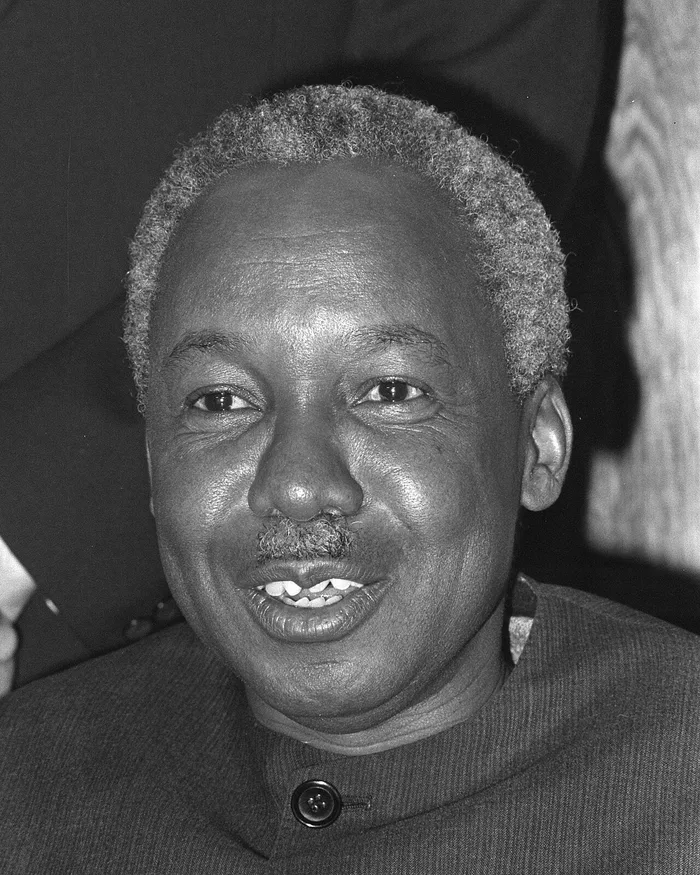
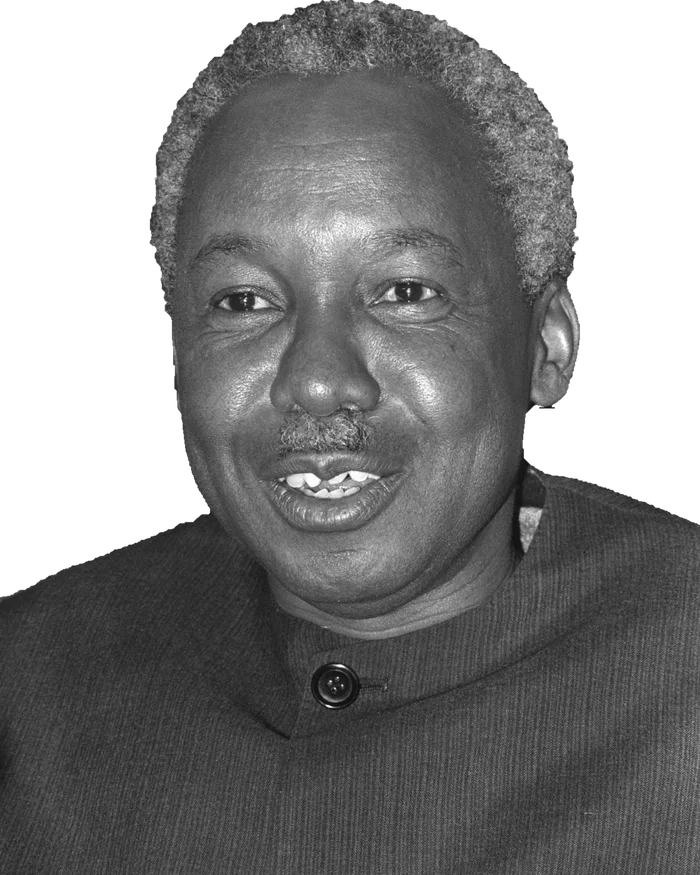
Add 20 more leaders (52 total) + Empires & Antiquity group
New past: Kenyatta, Sékou Touré, Houphouët-Boigny, Kaunda, Samora Machel,
Bourguiba, Ben Bella, Luthuli, Cheikh Anta Diop, Makeba, Ngũgĩ, Hatshepsut.
New present: Ruto, Faye, Museveni, Hichilema, Kipchoge, Elumelu, N'Dour, Graça Machel.
All portraits self-hosted as local WebP; new 'Empires & Antiquity' theme group.

diff --git a/public/leaders.js b/public/leaders.js
@@ -292,6 +292,199 @@ window.LEADERS = [
     quote: "The branch will not break in the arms of the chameleon."
   },
 
+  {
+    id: "kenyatta",
+    name: "Jomo Kenyatta",
+    country: "Kenya",
+    flag: "🇰🇪",
+    era: "past",
+    category: "Politics & Liberation",
+    years: "1897–1978",
+    role: "Independence leader & first president of Kenya (1964–1978)",
+    tagline: "The 'Mzee' who led Kenya from colony to nation.",
+    rise: "Detained by the British during the Mau Mau emergency, Kenyatta emerged from years in prison to lead Kenya to independence in 1963.",
+    did: "He unified a young multi-ethnic nation under the rallying cry 'Harambee' (pulling together), expanded education, and built a stable, business-friendly economy.",
+    fullPicture: "His rule grew centralized and personalized, and land policies favoring his allies and community sowed grievances that still echo in Kenyan politics.",
+    why: "Kenyatta is the founding father of modern Kenya — embodying both the promise and the unfinished business of independence.",
+    quote: "Our children may learn about the heroes of the past. Our task is to make ourselves the architects of the future."
+  },
+  {
+    id: "sekoutoure",
+    name: "Ahmed Sékou Touré",
+    country: "Guinea",
+    flag: "🇬🇳",
+    era: "past",
+    category: "Politics & Liberation",
+    years: "1922–1984",
+    role: "Independence leader & first president of Guinea (1958–1984)",
+    tagline: "The man who said 'No' to France — and chose freedom over comfort.",
+    rise: "A trade unionist, Touré led Guinea to reject de Gaulle's 1958 community, making it the only French colony to vote for immediate independence.",
+    did: "France withdrew overnight, stripping the country bare; Touré built a fiercely sovereign, pan-African state and sheltered liberation movements.",
+    fullPicture: "That defiance hardened into paranoid dictatorship: the notorious Camp Boiro saw mass detention, torture and death, and many Guineans fled into exile.",
+    why: "Touré's 'No' is a landmark of African self-determination — and his descent a warning about the cost of unchecked power.",
+    quote: "We prefer freedom in poverty to opulence in slavery."
+  },
+  {
+    id: "houphouet",
+    name: "Félix Houphouët-Boigny",
+    country: "Côte d'Ivoire",
+    flag: "🇨🇮",
+    era: "past",
+    category: "Politics & Governance",
+    years: "1905–1993",
+    role: "First president of Côte d'Ivoire (1960–1993)",
+    tagline: "Architect of the 'Ivorian miracle' — and of dependence on France.",
+    rise: "A planter, doctor and French government minister before independence, Houphouët-Boigny led Côte d'Ivoire to nationhood in 1960.",
+    did: "He delivered decades of stability and cocoa-driven growth — the 'Ivorian miracle' — making Abidjan a thriving regional hub.",
+    fullPicture: "His one-party rule, close 'Françafrique' ties and the extravagant Yamoussoukro basilica drew criticism, and the prosperity unraveled into conflict after his death.",
+    why: "He showed stability and growth were possible in post-colonial Africa — and how fragile they are without durable institutions.",
+    quote: "Peace is not a word, it is a behaviour."
+  },
+  {
+    id: "kaunda",
+    name: "Kenneth Kaunda",
+    country: "Zambia",
+    flag: "🇿🇲",
+    era: "past",
+    category: "Politics & Liberation",
+    years: "1924–2021",
+    role: "Independence leader & first president of Zambia (1964–1991)",
+    tagline: "'KK' — the humanist who hosted a continent's freedom fighters.",
+    rise: "A teacher and independence activist, Kaunda led Zambia to freedom from British rule in 1964.",
+    did: "Guided by his philosophy of 'Zambian Humanism', he made Zambia a frontline supporter of liberation movements across southern Africa, sheltering the ANC and others.",
+    fullPicture: "Copper dependence and one-party rule brought economic decline — but in 1991 he accepted electoral defeat and handed over power peacefully, a rare grace.",
+    why: "Kaunda paired pan-African solidarity with a willingness to leave office — a model too few of his peers followed.",
+    quote: "Man must be at the centre of all our activity."
+  },
+  {
+    id: "machel",
+    name: "Samora Machel",
+    country: "Mozambique",
+    flag: "🇲🇿",
+    era: "past",
+    category: "Politics & Liberation",
+    years: "1933–1986",
+    role: "FRELIMO leader & first president of Mozambique (1975–1986)",
+    tagline: "The revolutionary who freed Mozambique — and died in the sky.",
+    rise: "A nurse turned guerrilla commander, Machel led FRELIMO to victory over Portuguese colonial rule, becoming Mozambique's first president in 1975.",
+    did: "He launched ambitious health and literacy campaigns and championed national unity and women's emancipation in a war-torn new nation.",
+    fullPicture: "His Marxist policies and a brutal, externally-backed civil war battered the economy; he died in 1986 in a still-disputed plane crash near the South African border.",
+    why: "Machel remains a symbol of revolutionary idealism — and of the slogan that outlived him: the struggle continues.",
+    quote: "A luta continua — the struggle continues."
+  },
+  {
+    id: "bourguiba",
+    name: "Habib Bourguiba",
+    country: "Tunisia",
+    flag: "🇹🇳",
+    era: "past",
+    category: "Politics & Governance",
+    years: "1903–2000",
+    role: "Founding father & first president of Tunisia (1957–1987)",
+    tagline: "The modernizer who built women's rights into a nation's foundation.",
+    rise: "Leader of the independence movement against France, Bourguiba became independent Tunisia's first president in 1957.",
+    did: "He enacted the Code of Personal Status — among the Arab world's most progressive — banning polygamy and expanding women's rights, and built a secular, education-focused state.",
+    fullPicture: "His decades-long rule became a personality cult and one-party system; declared president-for-life, he was deposed in a 1987 medical coup.",
+    why: "Bourguiba showed reform and women's emancipation could anchor a modern state — while modelling the trap of clinging to power.",
+    quote: "A nation cannot advance while half its people remain in the shadows."
+  },
+  {
+    id: "benbella",
+    name: "Ahmed Ben Bella",
+    country: "Algeria",
+    flag: "🇩🇿",
+    era: "past",
+    category: "Politics & Liberation",
+    years: "1916–2012",
+    role: "Revolutionary & first president of Algeria (1963–1965)",
+    tagline: "A hero of one of the 20th century's bloodiest wars of independence.",
+    rise: "A founder of the FLN, Ben Bella helped lead Algeria's brutal war of independence against France and emerged from prison to become the nation's first president in 1963.",
+    did: "He embodied the triumph of an immense anti-colonial struggle and threw Algeria behind third-world and pan-African causes.",
+    fullPicture: "His presidency was brief and increasingly autocratic; he was overthrown by Houari Boumédiène in 1965 and spent years imprisoned and in exile.",
+    why: "Ben Bella personifies the enormous cost — and the contested aftermath — of liberation won by the gun.",
+    quote: "Independence is not given; it is wrested from the oppressor."
+  },
+  {
+    id: "luthuli",
+    name: "Albert Luthuli",
+    country: "South Africa",
+    flag: "🇿🇦",
+    era: "past",
+    category: "Politics & Liberation",
+    years: "1898–1967",
+    role: "ANC president-general; first African Nobel Peace laureate",
+    tagline: "The chief who chose nonviolence — and won Africa's first Nobel Peace Prize.",
+    rise: "A Zulu chief and teacher, Luthuli became president-general of the ANC in 1952, leading the early mass campaign against apartheid.",
+    did: "He steered a disciplined nonviolent resistance and, in 1960, became the first African awarded the Nobel Peace Prize.",
+    fullPicture: "Banned, silenced and confined by the apartheid regime for much of his later life, he died in disputed circumstances in 1967.",
+    why: "Luthuli laid the moral foundation of the anti-apartheid struggle that Mandela's generation carried forward.",
+    quote: "The road to freedom is via the cross."
+  },
+  {
+    id: "diop",
+    name: "Cheikh Anta Diop",
+    country: "Senegal",
+    flag: "🇸🇳",
+    era: "past",
+    category: "Culture & Ideas",
+    years: "1923–1986",
+    role: "Historian, physicist & pan-African scholar",
+    tagline: "The scholar who reclaimed ancient Egypt as African.",
+    rise: "Trained in physics and history in Paris, Diop fused science and scholarship to challenge colonial accounts of Africa's past.",
+    did: "He marshaled linguistic, cultural and even radiocarbon evidence to argue that ancient Egypt (Kemet) was a Black African civilization, reshaping African historiography.",
+    fullPicture: "His theses were fiercely contested in Western academia, but his rigor and pan-African vision proved deeply influential; Senegal's main university bears his name.",
+    why: "Diop gave Africa back its deep history — the very idea at the heart of a 'Kemet' consciousness.",
+    quote: "The history of Africa will remain suspended in air until African historians dare to connect it with the history of Egypt."
+  },
+  {
+    id: "makeba",
+    name: "Miriam Makeba",
+    country: "South Africa",
+    flag: "🇿🇦",
+    era: "past",
+    category: "Culture & Ideas",
+    years: "1932–2008",
+    role: "'Mama Africa' — singer & anti-apartheid activist",
+    tagline: "The voice that carried Africa's freedom to the world.",
+    rise: "A gifted singer, Makeba rose from Johannesburg to global stardom — then was exiled for speaking out against apartheid.",
+    did: "She testified at the United Nations, won a Grammy, and turned her music into a weapon against racism and for African dignity.",
+    fullPicture: "Statelessness, surveillance and personal hardship shadowed her decades in exile; she only returned home after Mandela's release.",
+    why: "Makeba proved culture is diplomacy — 'Mama Africa' gave the continent a voice the world could not ignore.",
+    quote: "I look at an ant and I see myself: endowed by nature with a strength much greater than my size."
+  },
+  {
+    id: "ngugi",
+    name: "Ngũgĩ wa Thiong'o",
+    country: "Kenya",
+    flag: "🇰🇪",
+    era: "past",
+    category: "Culture & Ideas",
+    years: "1938–2025",
+    role: "Novelist & champion of African languages",
+    tagline: "The writer who fought to decolonize the African mind.",
+    rise: "With novels like Weep Not, Child and Petals of Blood, Ngũgĩ became one of Africa's most celebrated authors.",
+    did: "He abandoned English for his native Gikuyu to write for ordinary Africans, and his essays — above all 'Decolonising the Mind' — reframed how the continent thinks about language and power.",
+    fullPicture: "Imprisoned without trial for a play in Gikuyu, he spent decades in exile, never softening his critique of post-colonial elites.",
+    why: "Ngũgĩ insisted that liberation is incomplete until a people reclaim their own languages and stories.",
+    quote: "The choice of language is central to a people's definition of themselves."
+  },
+  {
+    id: "hatshepsut",
+    name: "Hatshepsut",
+    country: "Egypt",
+    flag: "🇪🇬",
+    era: "past",
+    category: "Empires & Antiquity",
+    years: "c. 1507–1458 BC",
+    role: "Pharaoh of ancient Egypt (Kemet)",
+    tagline: "The woman who ruled as king — and made Kemet prosper.",
+    rise: "Stepping beyond the role of regent, Hatshepsut took the full titles of pharaoh, one of the very few women to rule ancient Egypt in her own right.",
+    did: "Her reign brought peace and wealth: grand temples like Deir el-Bahari, restored trade networks, and a famed expedition to the land of Punt.",
+    fullPicture: "After her death, successors tried to erase her name and image from monuments — nearly deleting her from history until modern scholars restored her.",
+    why: "Hatshepsut is one of antiquity's most successful rulers and an enduring symbol of African and female leadership at civilization's dawn.",
+    quote: "I have restored that which was in ruins; I have raised up that which was left unfinished."
+  },
+
   // ---------------- PRESENT ----------------
   {
     id: "sirleaf",
@@ -516,5 +709,133 @@ window.LEADERS = [
     fullPicture: "Tellingly, in several years the prize committee has found no worthy recipient — a pointed verdict on the state of African leadership.",
     why: "Ibrahim reframed the continent's central challenge as governance, and built the tools to measure and reward it.",
     quote: "Leadership is not about power; it is about responsibility."
+  },
+  {
+    id: "ruto",
+    name: "William Ruto",
+    country: "Kenya",
+    flag: "🇰🇪",
+    era: "present",
+    category: "Politics & Governance",
+    years: "b. 1966",
+    role: "President of Kenya (since 2022)",
+    tagline: "The self-styled 'hustler' who rose from selling chickens to State House.",
+    rise: "From humble rural beginnings, Ruto built a long political career and won the 2022 election by casting himself as champion of ordinary strivers — the 'hustler nation'.",
+    did: "He moved on fiscal reforms and a digital-jobs and housing agenda, positioning Kenya as a regional voice on climate finance.",
+    fullPicture: "Aggressive new taxes triggered mass youth-led protests in 2024, exposing the gap between 'hustler' promises and the squeeze on ordinary Kenyans.",
+    why: "Ruto's presidency tests whether populist messaging can survive contact with hard economic governance.",
+    quote: "Every hustler deserves a fair chance to climb."
+  },
+  {
+    id: "faye",
+    name: "Bassirou Diomaye Faye",
+    country: "Senegal",
+    flag: "🇸🇳",
+    era: "present",
+    category: "Politics & Governance",
+    years: "b. 1980",
+    role: "President of Senegal (since 2024)",
+    tagline: "From a prison cell to the presidency in ten days.",
+    rise: "A little-known tax inspector and opposition figure, Faye was released from prison days before winning Senegal's 2024 election, becoming Africa's youngest elected president.",
+    did: "He took office promising a clean break: anti-corruption reform, sovereignty over Senegal's resources, and a renegotiated relationship with France.",
+    fullPicture: "Expectations are sky-high and the margin for error thin; delivering systemic change against entrenched interests is the real test ahead.",
+    why: "Faye embodies a youthful, democratic demand for rupture sweeping West Africa — reform through the ballot, not the barracks.",
+    quote: "Govern with humility, transparency, and a clean break from the past."
+  },
+  {
+    id: "museveni",
+    name: "Yoweri Museveni",
+    country: "Uganda",
+    flag: "🇺🇬",
+    era: "present",
+    category: "Politics & Governance",
+    years: "b. 1944",
+    role: "President of Uganda (since 1986)",
+    tagline: "The rebel who warned against leaders who overstay — then stayed for decades.",
+    rise: "A guerrilla commander, Museveni seized power in 1986 and brought early stability, growth, and praise for Uganda's response to HIV/AIDS.",
+    did: "He rebuilt a shattered economy and made Uganda a regional security player, hosting refugees and contributing troops to African missions.",
+    fullPicture: "Term and age limits were scrapped to extend his rule; opposition crackdowns and dynastic succession fears have hardened his grip past four decades.",
+    why: "Museveni is the textbook case of the liberator who became the very thing he once denounced.",
+    quote: "The problem of Africa is leaders who want to overstay in power."
+  },
+  {
+    id: "hichilema",
+    name: "Hakainde Hichilema",
+    country: "Zambia",
+    flag: "🇿🇲",
+    era: "present",
+    category: "Politics & Governance",
+    years: "b. 1962",
+    role: "President of Zambia (since 2021)",
+    tagline: "Lost five elections, was jailed — then won, and steadied a nation.",
+    rise: "A cattle-herder turned self-made businessman, 'HH' ran for president five times — and was once jailed on treason charges — before winning in 2021.",
+    did: "He moved to restore fiscal credibility, restructured Zambia's defaulted debt, and rebuilt ties with investors and lenders.",
+    fullPicture: "Debt relief has been slow and painful, and critics watch closely for whether his democratic promises hold under pressure.",
+    why: "Hichilema's persistence — and Zambia's peaceful change of power — is a hopeful counter-story in a region of democratic backsliding.",
+    quote: "Defeat is never final until you decide to stop trying."
+  },
+  {
+    id: "kipchoge",
+    name: "Eliud Kipchoge",
+    country: "Kenya",
+    flag: "🇰🇪",
+    era: "present",
+    category: "Sport & Society",
+    years: "b. 1984",
+    role: "Marathon legend; first to run under two hours",
+    tagline: "The philosopher-runner who proved 'no human is limited'.",
+    rise: "From the highlands of Kenya, Kipchoge rose to dominate distance running with monk-like discipline and humility.",
+    did: "Two-time Olympic marathon champion, he became in 2019 the first human to run a marathon under two hours, redefining the limits of the possible.",
+    fullPicture: "The sub-two run came in special conditions outside official records, but his message — discipline over talent — transcends the asterisk.",
+    why: "Kipchoge turned endurance into a philosophy of self-mastery that inspires far beyond the track.",
+    quote: "No human is limited."
+  },
+  {
+    id: "elumelu",
+    name: "Tony Elumelu",
+    country: "Nigeria",
+    flag: "🇳🇬",
+    era: "present",
+    category: "Business & Enterprise",
+    years: "b. 1963",
+    role: "Banker, investor & champion of 'Africapitalism'",
+    tagline: "The financier betting on African entrepreneurs to develop the continent.",
+    rise: "Elumelu turned a small, troubled bank into a pan-African financial powerhouse, then built a sprawling investment group across power, finance and resources.",
+    did: "Through his foundation he pledged to seed and mentor thousands of African entrepreneurs, advancing his philosophy of 'Africapitalism' — private capital driving public good.",
+    fullPicture: "Critics ask whether philanthropy at scale can substitute for structural reform, but few have backed homegrown founders so directly.",
+    why: "Elumelu reframes Africa's future around its entrepreneurs rather than aid or extraction.",
+    quote: "Africa's prosperity is the responsibility of the private sector, not of aid."
+  },
+  {
+    id: "ndour",
+    name: "Youssou N'Dour",
+    country: "Senegal",
+    flag: "🇸🇳",
+    era: "present",
+    category: "Culture & Ideas",
+    years: "b. 1959",
+    role: "Global music icon; voice of mbalax",
+    tagline: "The griot's heir who took Senegal's sound to the world.",
+    rise: "Rising from Dakar's working-class Medina, N'Dour fused traditional Wolof rhythms into mbalax and became one of Africa's most acclaimed musicians.",
+    did: "A Grammy winner who collaborated with global stars, he used his fame for activism — on malaria, debt and democracy — and later served his country as a minister.",
+    fullPicture: "His move into politics drew mixed reviews, a reminder that artistic and political authority don't always translate.",
+    why: "N'Dour shows how culture can be a nation's most powerful ambassador to the world.",
+    quote: "In Africa, the musician is the memory of the people."
+  },
+  {
+    id: "gracamachel",
+    name: "Graça Machel",
+    country: "Mozambique",
+    flag: "🇲🇿",
+    era: "present",
+    category: "Global Institutions",
+    years: "b. 1945",
+    role: "Humanitarian; champion of children's and women's rights",
+    tagline: "A global conscience for children caught in the world's wars.",
+    rise: "A freedom fighter and Mozambique's first education minister, Machel widened access to schooling in a newly independent nation.",
+    did: "Her landmark UN report on the impact of armed conflict on children reshaped global policy, and through The Elders she has championed children's and women's rights worldwide.",
+    fullPicture: "Uniquely the former first lady of two nations — Mozambique and South Africa — she has guarded her own independent moral voice.",
+    why: "Machel proves leadership can be exercised through advocacy, measured by the most vulnerable a society protects.",
+    quote: "The way a society treats its children reveals its true heart."
   }
 ];

diff --git a/public/images.js b/public/images.js
@@ -30,5 +30,25 @@ window.LEADER_IMAGES = {
   "soyinka": "portraits/soyinka.webp",
   "moibrahim": "portraits/moibrahim.webp",
   "gaddafi": "portraits/gaddafi.webp",
-  "kerekou": "portraits/kerekou.webp"
+  "kerekou": "portraits/kerekou.webp",
+  "kenyatta": "portraits/kenyatta.webp",
+  "sekoutoure": "portraits/sekoutoure.webp",
+  "houphouet": "portraits/houphouet.webp",
+  "kaunda": "portraits/kaunda.webp",
+  "machel": "portraits/machel.webp",
+  "bourguiba": "portraits/bourguiba.webp",
+  "benbella": "portraits/benbella.webp",
+  "luthuli": "portraits/luthuli.webp",
+  "diop": "portraits/diop.webp",
+  "makeba": "portraits/makeba.webp",
+  "ngugi": "portraits/ngugi.webp",
+  "hatshepsut": "portraits/hatshepsut.webp",
+  "ruto": "portraits/ruto.webp",
+  "faye": "portraits/faye.webp",
+  "museveni": "portraits/museveni.webp",
+  "hichilema": "portraits/hichilema.webp",
+  "kipchoge": "portraits/kipchoge.webp",
+  "elumelu": "portraits/elumelu.webp",
+  "ndour": "portraits/ndour.webp",
+  "gracamachel": "portraits/gracamachel.webp"
 };

diff --git a/public/leaders-page.js b/public/leaders-page.js
@@ -15,6 +15,7 @@
 
   // Display order for thematic groups.
   const THEME_ORDER = [
+    "Empires & Antiquity",
     "Politics & Liberation",
     "Politics & Governance",
     "Global Institutions",